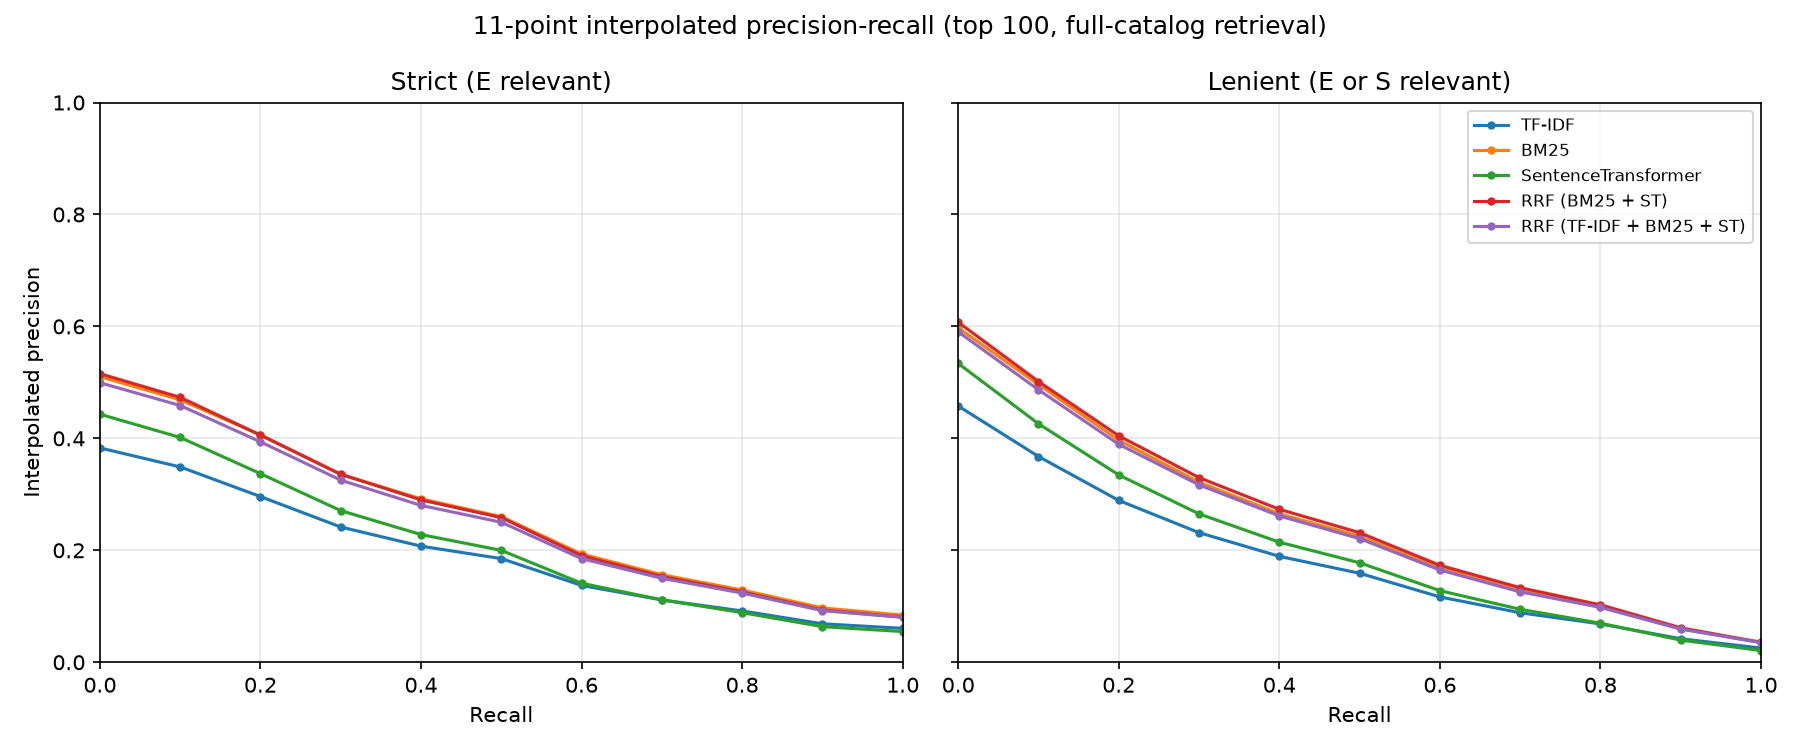
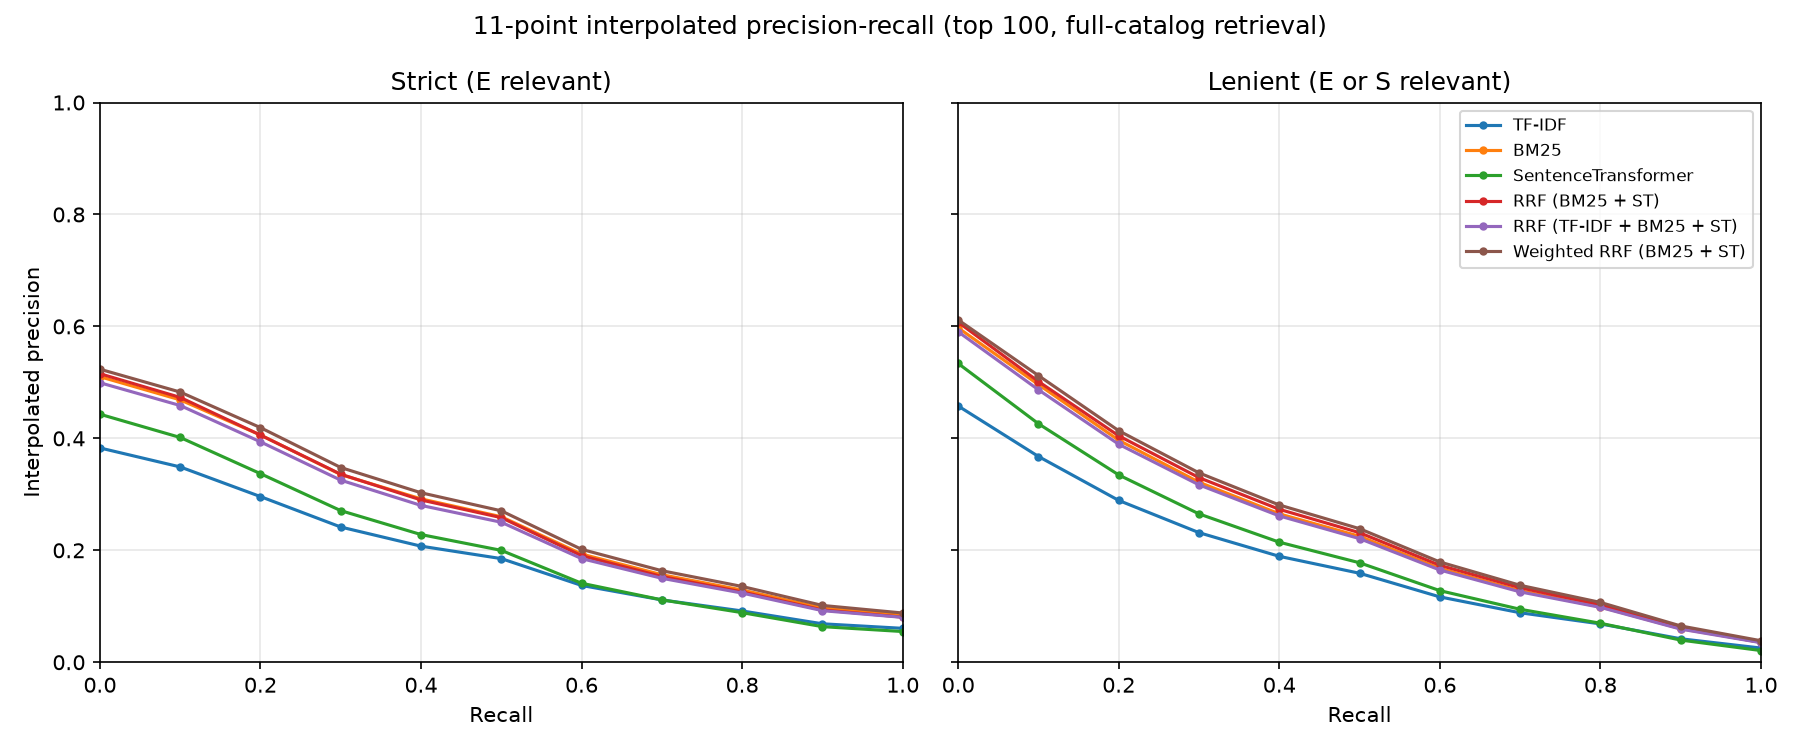
Add weighted RRF to test-set results

diff --git a/results/metrics.md b/results/metrics.md
@@ -2,20 +2,22 @@
 
 | Method                   |   P@10 |   Recall@100 |    MAP |   nDCG@10 |   Latency (ms/query) |
 |:-------------------------|-------:|-------------:|-------:|----------:|---------------------:|
-| TF-IDF                   | 0.1538 |       0.5096 | 0.1802 |    0.2301 |               1.7196 |
-| BM25                     | 0.2071 |       0.5669 | 0.2503 |    0.3196 |               0.5627 |
-| SentenceTransformer      | 0.1710 |       0.5205 | 0.1988 |    0.2633 |               5.6991 |
-| RRF (BM25 + ST)          | 0.2079 |       0.6041 | 0.2498 |    0.3195 |               6.3001 |
-| RRF (TF-IDF + BM25 + ST) | 0.2037 |       0.5890 | 0.2423 |    0.3112 |               8.0302 |
+| TF-IDF                   | 0.1538 |       0.5096 | 0.1802 |    0.2301 |               1.6819 |
+| BM25                     | 0.2071 |       0.5669 | 0.2503 |    0.3196 |               0.4937 |
+| SentenceTransformer      | 0.1710 |       0.5205 | 0.1988 |    0.2633 |               5.7110 |
+| RRF (BM25 + ST)          | 0.2079 |       0.6041 | 0.2498 |    0.3195 |               6.2422 |
+| RRF (TF-IDF + BM25 + ST) | 0.2037 |       0.5890 | 0.2423 |    0.3112 |               7.9354 |
+| Weighted RRF (BM25 + ST) | 0.2155 |       0.6013 | 0.2605 |    0.3313 |               6.2375 |
 
 ## Lenient relevance (E or S = relevant), 8,956 queries
 
 | Method                   |   P@10 |   Recall@100 |    MAP |   nDCG@10 |   Latency (ms/query) |
 |:-------------------------|-------:|-------------:|-------:|----------:|---------------------:|
-| TF-IDF                   | 0.2203 |       0.4291 | 0.1700 |    0.2301 |               1.7196 |
-| BM25                     | 0.2972 |       0.4851 | 0.2364 |    0.3196 |               0.5627 |
-| SentenceTransformer      | 0.2521 |       0.4508 | 0.1943 |    0.2633 |               5.6991 |
-| RRF (BM25 + ST)          | 0.3020 |       0.5207 | 0.2427 |    0.3195 |               6.3001 |
-| RRF (TF-IDF + BM25 + ST) | 0.2950 |       0.5048 | 0.2331 |    0.3112 |               8.0302 |
+| TF-IDF                   | 0.2203 |       0.4291 | 0.1700 |    0.2301 |               1.6819 |
+| BM25                     | 0.2972 |       0.4851 | 0.2364 |    0.3196 |               0.4937 |
+| SentenceTransformer      | 0.2521 |       0.4508 | 0.1943 |    0.2633 |               5.7110 |
+| RRF (BM25 + ST)          | 0.3020 |       0.5207 | 0.2427 |    0.3195 |               6.2422 |
+| RRF (TF-IDF + BM25 + ST) | 0.2950 |       0.5048 | 0.2331 |    0.3112 |               7.9354 |
+| Weighted RRF (BM25 + ST) | 0.3096 |       0.5175 | 0.2490 |    0.3313 |               6.2375 |
 
 nDCG@10 uses graded gains E=1.0, S=0.1, C=0.01, I=0 in both tables.
